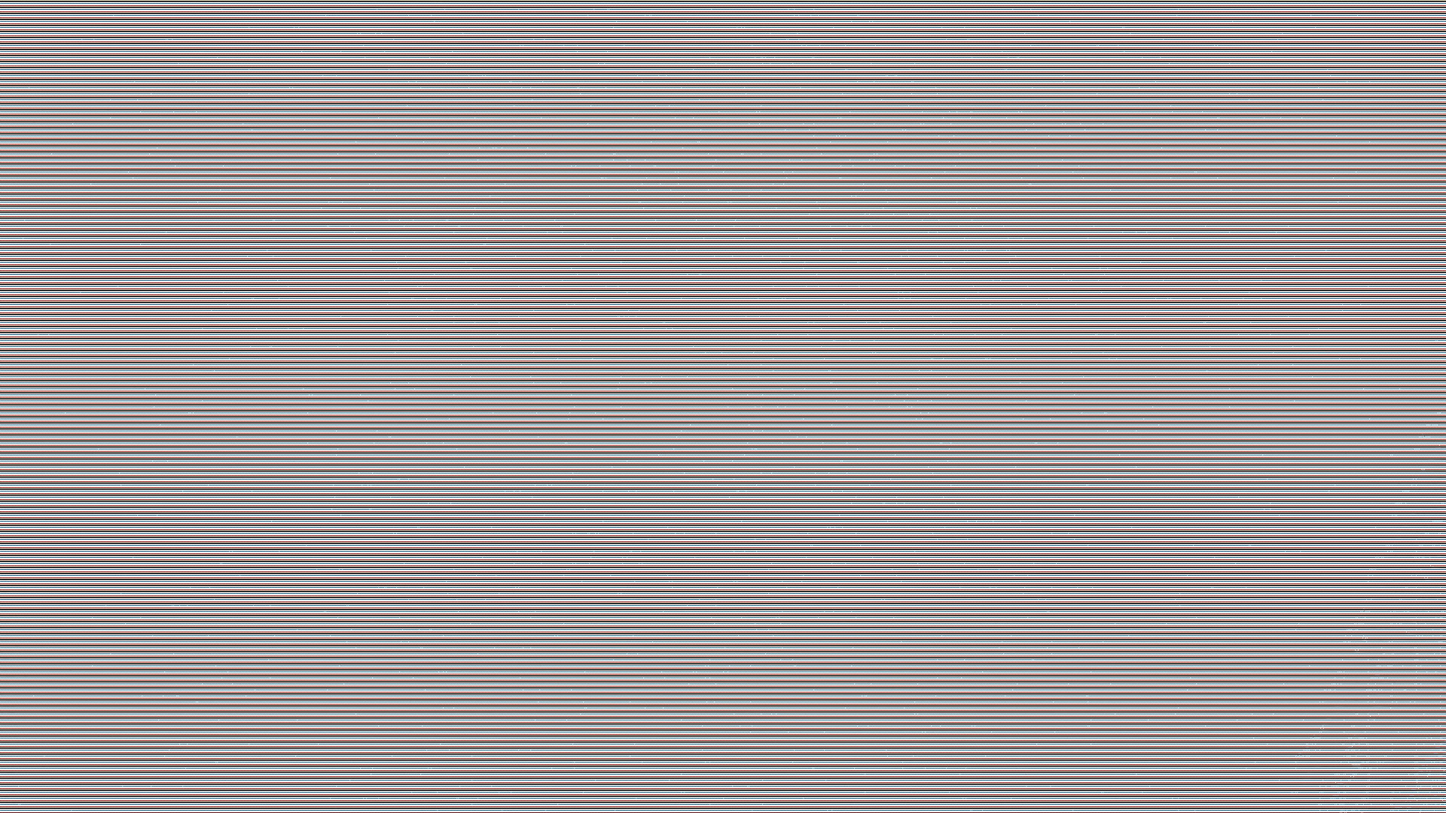
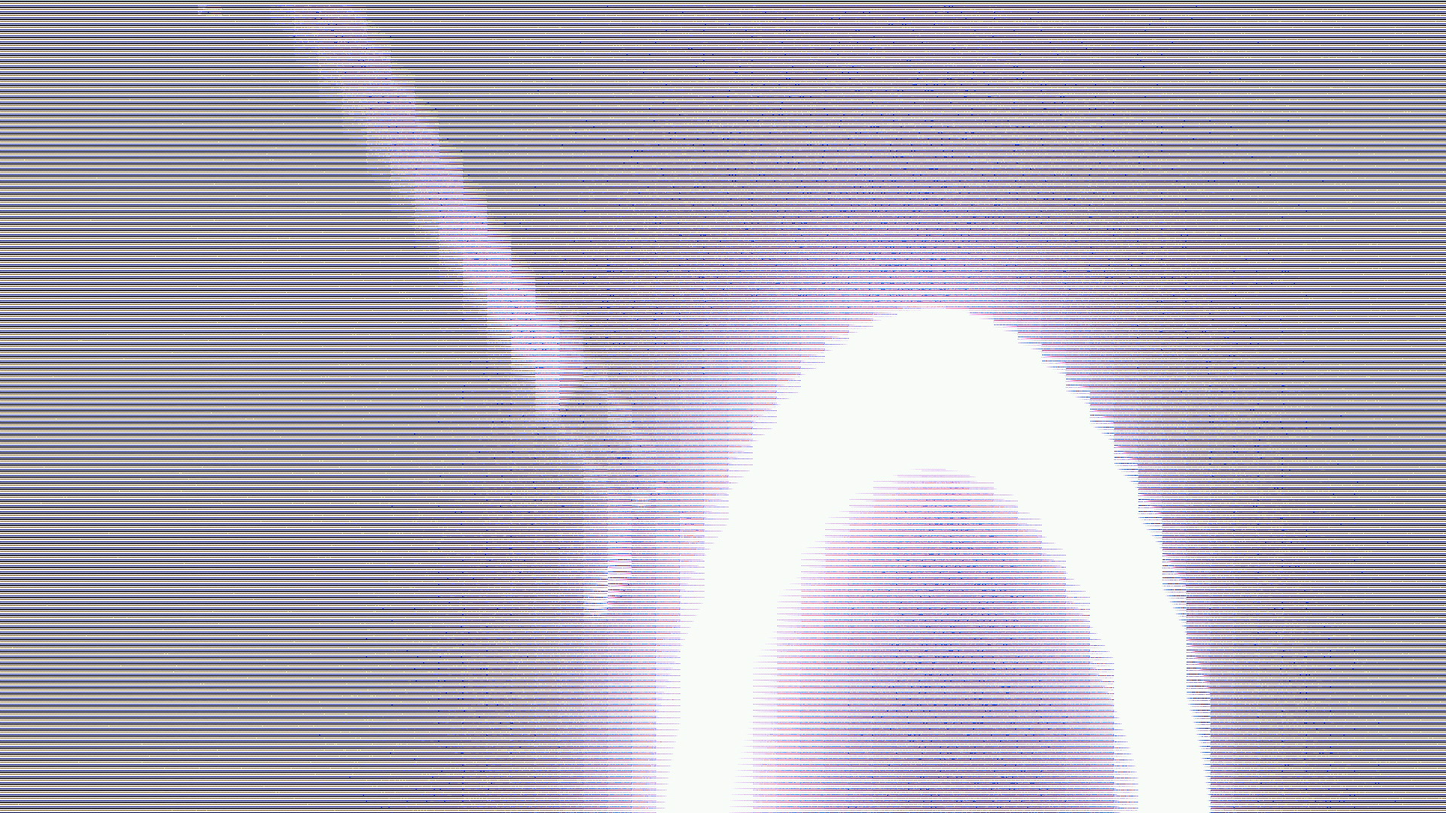
camera: first test pattern

diff --git a/camera/src/OV64A40_snapshot/components/ov64a40/ov64a40.c b/camera/src/OV64A40_snapshot/components/ov64a40/ov64a40.c
@@ -56,7 +56,7 @@ static const esp_cam_sensor_isp_info_t ov64a40_isp_info[] = {
             .exp_def = IMX219_EXPOSURE_DEFAULT,
             .gain_def = IMX219_ANA_GAIN_DEFAULT,
             .tline_ns = OV64A40_TLINE_NS,
-            .bayer_type = ESP_CAM_SENSOR_BAYER_RGGB,
+            .bayer_type = ESP_CAM_SENSOR_BAYER_BGGR,
         }
     }
 };
@@ -153,7 +153,8 @@ static const uint16_t ov64a40_ana_gain_code_map[] = {
 /* Bayer phase                                                         */
 /* ------------------------------------------------------------------ */
 /*
- * Bayer phase by flip state, indexed (vflip << 1) | hmirror.
+ * Bayer phase by flip state, indexed (hmirror << 1) | vflip, matching the
+ * Linux OV64A40 driver's media-bus code selection.
  *
  * A flip does not mirror the picture behind a fixed colour mosaic. It reverses
  * the order pixels leave the array in, so the 2x2 tile the ISP has to
@@ -162,17 +163,15 @@ static const uint16_t ov64a40_ana_gain_code_map[] = {
  * simply wrong. Raspberry Pi's driver does the same thing by swapping the
  * media-bus code across four entries.
  *
- * The unflipped phase is RGGB for all three modes because every readout window
- * starts on a multiple of 4 in both axes - see the note on the 1632 mode in
- * imx219_settings.h, which is where that was reasoned out. So this table sits
- * on top of one base phase; a mode with an odd window origin would need its
- * own, exactly as an odd origin already swaps red and blue with no flip at all.
+ * The Linux driver reports SBGGR10 with no flip, then SGRBG, SGBRG, and SRGGB
+ * for indices 1 through 3. The 1920x1080 readout starts at even x/y offsets,
+ * so its CFA phase agrees with that base order.
  */
 static const esp_cam_sensor_bayer_pattern_t imx219_bayer_by_flip[4] = {
-    [0] = ESP_CAM_SENSOR_BAYER_RGGB,    /* no flip  */
-    [1] = ESP_CAM_SENSOR_BAYER_GRBG,    /* h mirror */
-    [2] = ESP_CAM_SENSOR_BAYER_GBRG,    /* v flip   */
-    [3] = ESP_CAM_SENSOR_BAYER_BGGR,    /* both     */
+    [0] = ESP_CAM_SENSOR_BAYER_BGGR,    /* no flip */
+    [1] = ESP_CAM_SENSOR_BAYER_GRBG,    /* vflip   */
+    [2] = ESP_CAM_SENSOR_BAYER_GBRG,    /* hmirror */
+    [3] = ESP_CAM_SENSOR_BAYER_RGGB,    /* both    */
 };
 
 /*
@@ -191,8 +190,8 @@ static const esp_cam_sensor_bayer_pattern_t imx219_bayer_by_flip[4] = {
 typedef struct {
     uint32_t exposure_val;      /*!< current exposure, in lines */
     uint32_t gain_index;        /*!< index into imx219_total_gain_val_map */
-    uint8_t  hmirror;           /*!< 0x0172 bit 0 */
-    uint8_t  vflip;             /*!< 0x0172 bit 1 */
+    uint8_t  hmirror;           /*!< 0x3821 bit 2 (active low) */
+    uint8_t  vflip;             /*!< 0x3820 bit 2 */
     esp_cam_sensor_format_t   format;
     esp_cam_sensor_isp_info_t isp_info;
 } imx219_para_t;
@@ -302,10 +301,8 @@ static esp_err_t imx219_hw_reset(esp_cam_sensor_device_t *dev)
 /*
  * Push the cached flip state to the sensor and to the shadow isp_info.
  *
- * Both bits are written together as a whole byte. The driver owns every bit of
- * the orientation register, so there is nothing to preserve, and a
- * read-modify-write per bit would leave it momentarily holding a combination
- * the caller never asked for.
+ * Update only the orientation bits: the neighboring bits control binning and
+ * pixel timing. OV64A40 horizontal flip is active-low; vertical flip is active-high.
  *
  * Note what the ISP does and does not see. esp_video latches bayer_type into
  * its own CSI state inside update_format_config(), which runs at device open
@@ -318,25 +315,21 @@ static esp_err_t imx219_hw_reset(esp_cam_sensor_device_t *dev)
 static esp_err_t imx219_apply_orientation(esp_cam_sensor_device_t *dev)
 {
     imx219_para_t *para = (imx219_para_t *)dev->priv;
-    uint8_t regval = 0;
-
     if (para == NULL) {
         return ESP_ERR_INVALID_STATE;
     }
-    if (para->hmirror) {
-        regval |= IMX219_ORIENTATION_HMIRROR;
+    esp_err_t ret = ov64a40_set_reg_bits(dev->sccb_handle, OV64A40_REG_TIMING_CTRL_21,
+                                         2, 1, para->hmirror ? 0 : 1);
+    if (ret == ESP_OK) {
+        ret = ov64a40_set_reg_bits(dev->sccb_handle, OV64A40_REG_TIMING_CTRL_20,
+                                   2, 1, para->vflip);
     }
-    if (para->vflip) {
-        regval |= IMX219_ORIENTATION_VFLIP;
-    }
-
-    esp_err_t ret = ov64a40_write(dev->sccb_handle, IMX219_REG_ORIENTATION, regval);
     if (ret != ESP_OK) {
         return ret;
     }
 
     para->isp_info.isp_v1_info.bayer_type =
-        imx219_bayer_by_flip[(para->vflip ? 2 : 0) | (para->hmirror ? 1 : 0)];
+        imx219_bayer_by_flip[(para->hmirror ? 2 : 0) | (para->vflip ? 1 : 0)];
     return ESP_OK;
 }
 
@@ -538,20 +531,21 @@ static esp_err_t imx219_get_para_value(esp_cam_sensor_device_t *dev, uint32_t id
 static esp_err_t imx219_set_para_value(esp_cam_sensor_device_t *dev, uint32_t id, const void *arg, size_t size)
 {
     esp_err_t ret = ESP_OK;
+
+    if (arg == NULL || size < sizeof(uint32_t)) {
+        return ESP_ERR_INVALID_ARG;
+    }
+
     ESP_LOGI(TAG, "set para value id: %d", id);
     switch(id){
     case ESP_CAM_SENSOR_VFLIP: {
-        /*
         const imx219_para_t *para = (const imx219_para_t *)dev->priv;
         ret = imx219_set_orientation(dev, para ? para->hmirror : 0, *(const int *)arg);
-        */
         break;
     }
     case ESP_CAM_SENSOR_HMIRROR: {
-        /*
         const imx219_para_t *para = (const imx219_para_t *)dev->priv;
         ret = imx219_set_orientation(dev, *(const int *)arg, para ? para->vflip : 0);
-        */
         break;
     }
     case ESP_CAM_SENSOR_EXPOSURE_VAL:

diff --git a/camera/src/OV64A40_snapshot/main/ov64a40_snapshot_main.c b/camera/src/OV64A40_snapshot/main/ov64a40_snapshot_main.c
@@ -470,7 +470,7 @@ void app_main(void)
 #if TEST_PATTERN
     {
         struct v4l2_ext_control c = { .id = V4L2_CID_TEST_PATTERN, .value = 1 };
-        struct v4l2_ext_controls cs = { .ctrl_class = V4L2_CTRL_CLASS_USER, .count = 1, .controls = &c };
+        struct v4l2_ext_controls cs = { .ctrl_class = V4L2_CTRL_CLASS_IMAGE_PROC, .count = 1, .controls = &c };
         if (ioctl(fd, VIDIOC_S_EXT_CTRLS, &cs) != 0) {
             ESP_LOGW(TAG, "test pattern not accepted - capturing the live scene instead");
         } else {

diff --git a/camera/src/OV64A40_snapshot/components/ov64a40/private_include/ov64a40_regs.h b/camera/src/OV64A40_snapshot/components/ov64a40/private_include/ov64a40_regs.h
@@ -144,9 +144,6 @@ extern "C" {
 #define IMX219_REG_Y_OUTPUT_SIZE_L 0x016f
 #define IMX219_REG_X_ODD_INC       0x0170
 #define IMX219_REG_Y_ODD_INC       0x0171
-#define IMX219_REG_ORIENTATION     0x0172  /*!< bit0 = h flip, bit1 = v flip */
-#define IMX219_ORIENTATION_HMIRROR 0x01
-#define IMX219_ORIENTATION_VFLIP   0x02
 #define IMX219_REG_BINNING_MODE_H  0x0174
 #define IMX219_REG_BINNING_MODE_L  0x0175
 #define IMX219_BINNING_NONE        0x0000
